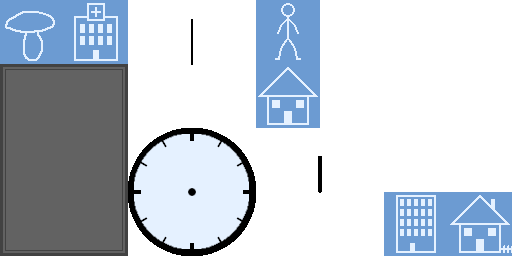
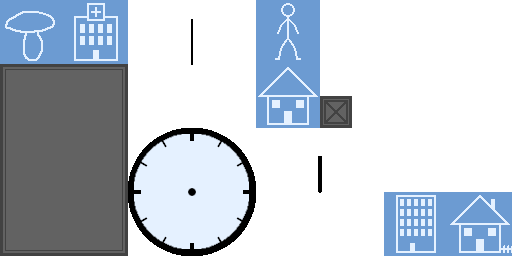
NPCStatWindow close button

Changed region(s): [[0.625, 0.375, 0.6875, 0.5]]

diff --git a/core/src/com/boxhead/builder/ui/NPCStatWindow.java b/core/src/com/boxhead/builder/ui/NPCStatWindow.java
@@ -5,15 +5,22 @@ import com.badlogic.gdx.math.Vector3;
 import com.boxhead.builder.*;
 import com.boxhead.builder.utils.Vector2i;
 
-public class StatWindow extends Window{
+public class NPCStatWindow extends Window{
     private NPC npc = null;
     private Vector3 npcPosition;
     private boolean pinned;
     String job = null, name = null;
     private int[] stats = null;
+    private Button closeButton;
 
-    public StatWindow() {
+    public NPCStatWindow() {
         super(Textures.getUI("stat_window"));
+        closeButton = new Button(Textures.getUI("close_button"), new Vector2i()) {
+            @Override
+            public void onClick() {
+                close();
+            }
+        };
     }
 
     public void show(NPC npc) {
@@ -32,6 +39,14 @@ public class StatWindow extends Window{
     public void onHold() {
         pinned = false;
         super.onHold();
+        if(closeButton.isClicked()) closeButton.onClick();
+        //closeButton.onClick() is called here instead of in the onClick() function because onClick() is called before onHold()
+        //and the isDragged variable stayed true despite of the left mouse button not being pressed.
+    }
+
+    @Override
+    public void onClick() {
+        super.onClick();
     }
 
     @Override
@@ -49,6 +64,9 @@ public class StatWindow extends Window{
             stat = NPC.Stats.values()[i].toString().toLowerCase() + ": ";
             UI.FONT.draw(batch, stat + npc.getStats()[i], position.x + 10, position.y - (i+2) * 23 + 105);
         }
+        closeButton.setPosition(position.x + texture.getRegionWidth() - closeButton.getTexture().getRegionWidth(),
+                                position.y + texture.getRegionHeight() - closeButton.getTexture().getRegionHeight());
+        closeButton.draw(batch);
     }
 
     private void updatePosition() {
@@ -60,5 +78,11 @@ public class StatWindow extends Window{
         name = npc.getName() + " " + npc.getSurname();
         job = npc.getJob().toString().toLowerCase();
         stats = npc.getStats();
+    }
+
+    private void close() {
+        setVisible(false);
+        pinned = false;
+        isDragged = false;
     }
 }

diff --git a/core/src/com/boxhead/builder/ui/UI.java b/core/src/com/boxhead/builder/ui/UI.java
@@ -18,7 +18,7 @@ public class UI {
     private static Button buildingButton, npcButton, homeButton, workplaceButton, serviceButton, fungusButton;
     private static ButtonGroup buildingMenu, mainMenu;
     private static UIElement clock, minuteHand, hourHand;
-    private static StatWindow statWindow;
+    private static NPCStatWindow NPCStatWindow;
 
     private static Vector2i clockPos;
     private static TextureRegion clockTexture = Textures.getUI("clock_face");
@@ -69,7 +69,7 @@ public class UI {
         mainMenu = new ButtonGroup(null, new Vector2i(), buildingButton, npcButton, fungusButton);
         buildingMenu = new ButtonGroup(null, new Vector2i(), homeButton, workplaceButton, serviceButton);
 
-        statWindow = new StatWindow();
+        NPCStatWindow = new NPCStatWindow();
 
         clockTexture = Textures.getUI("clock_face");
         clockPos = new Vector2i(Gdx.graphics.getWidth() - clockTexture.getRegionWidth()-10, Gdx.graphics.getHeight() - clockTexture.getRegionHeight()-10);
@@ -80,7 +80,7 @@ public class UI {
         mainMenu.setVisible(true);
 
         layers = new UIElement[][] {{mainMenu, buildingMenu, clock, minuteHand, hourHand},
-                                    {statWindow}};
+                                    {NPCStatWindow}};
     }
 
     public static void drawUI(SpriteBatch batch) {
@@ -116,6 +116,6 @@ public class UI {
     }
 
     public static void showStatWindow(NPC npc) {
-        statWindow.show(npc, true);
+        NPCStatWindow.show(npc, true);
     }
 }

diff --git a/core/src/com/boxhead/builder/ui/Window.java b/core/src/com/boxhead/builder/ui/Window.java
@@ -7,7 +7,7 @@ import com.boxhead.builder.utils.Vector2i;
 
 public class Window extends UIElement implements Clickable {
 
-    private boolean isDragged = false;
+    protected boolean isDragged = false;
 
     private final Vector2i mouseOnClick = new Vector2i();
 

diff --git a/core/src/com/boxhead/builder/ui/UIElement.java b/core/src/com/boxhead/builder/ui/UIElement.java
@@ -36,6 +36,10 @@ public class UIElement {
         return position;
     }
 
+    public void setPosition(int x, int y) {
+        position.set(x, y);
+    }
+
     public boolean isVisible() {
         return isVisible;
     }
